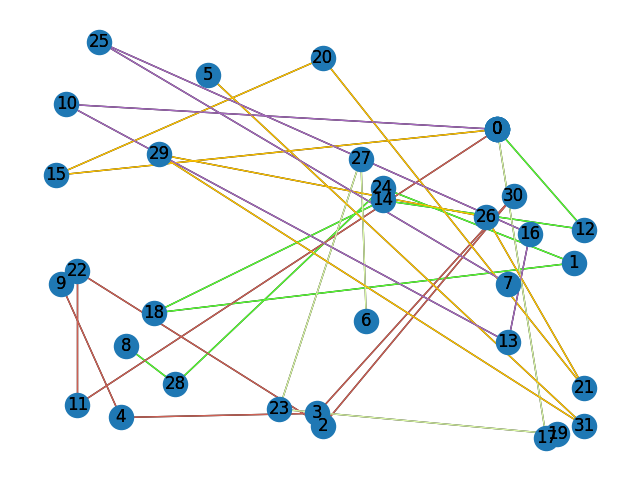
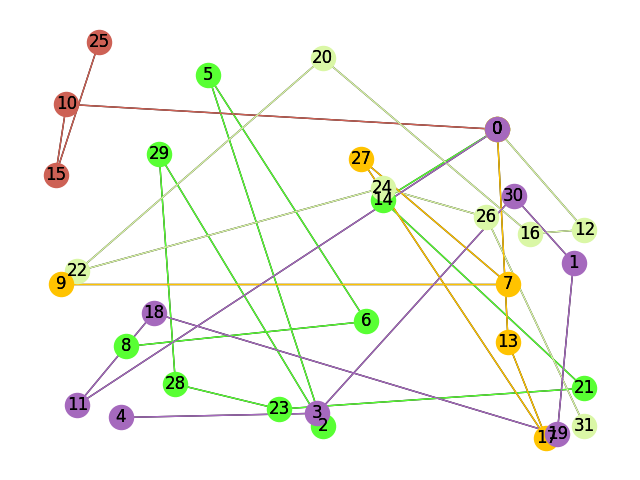
grapph coloring changes

diff --git a/CVRP.py b/CVRP.py
@@ -59,19 +59,19 @@ for r in range(p):
 import dimod
 B=2*n
 
-# T_max=max(2*n-p+1,1)
+T_max=max(2*n-p+1,1)
 
-# t=[[None]*(p) for _ in range(n)]
+t=[[None]*(p) for _ in range(n)]
 
-# for i in range(n):
-#     for r in range(p):
-#         t[i][r]=dimod.Integer(lower_bound=1,upper_bound=T_max,label=f't.{i}.{r}')
+for i in range(n):
+    for r in range(p):
+        t[i][r]=dimod.Integer(lower_bound=1,upper_bound=T_max,label=f't.{i}.{r}')
 
-# for i in range(1,n):
-#     for j in range(1,n):
-#         if i!=j:
-#             for k in range(p):
-#                 cqm.add_constraint((t[j][k]-(t[i][k]+1)+B*(1-x[k][i][j]))>=0)
+for i in range(1,n):
+    for j in range(1,n):
+        if i!=j:
+            for k in range(p):
+                cqm.add_constraint((t[j][k]-(t[i][k]+1)+B*(1-x[k][i][j]))>=0)
 
 def get_token():
     return 'DEV-84bd4a159c19999c61d45bf77755d8a37754ba12'
@@ -126,7 +126,7 @@ nx.draw(G, nx.get_node_attributes(G, 'pos'), with_labels=True, node_size=10)
 
 for l in range(len(paths)):
     k = G.subgraph(paths[l])
-    nx.draw_networkx(k, nx.get_node_attributes(G, 'pos'), with_labels=True, edge_color=colors[l])
+    nx.draw_networkx(k, nx.get_node_attributes(G, 'pos'), with_labels=True, edge_color=colors[l], node_color=colors[l])
 plt.savefig("solution", bbox_inches=None)
 
 print("\nTotal cost:\t",total_cost)
